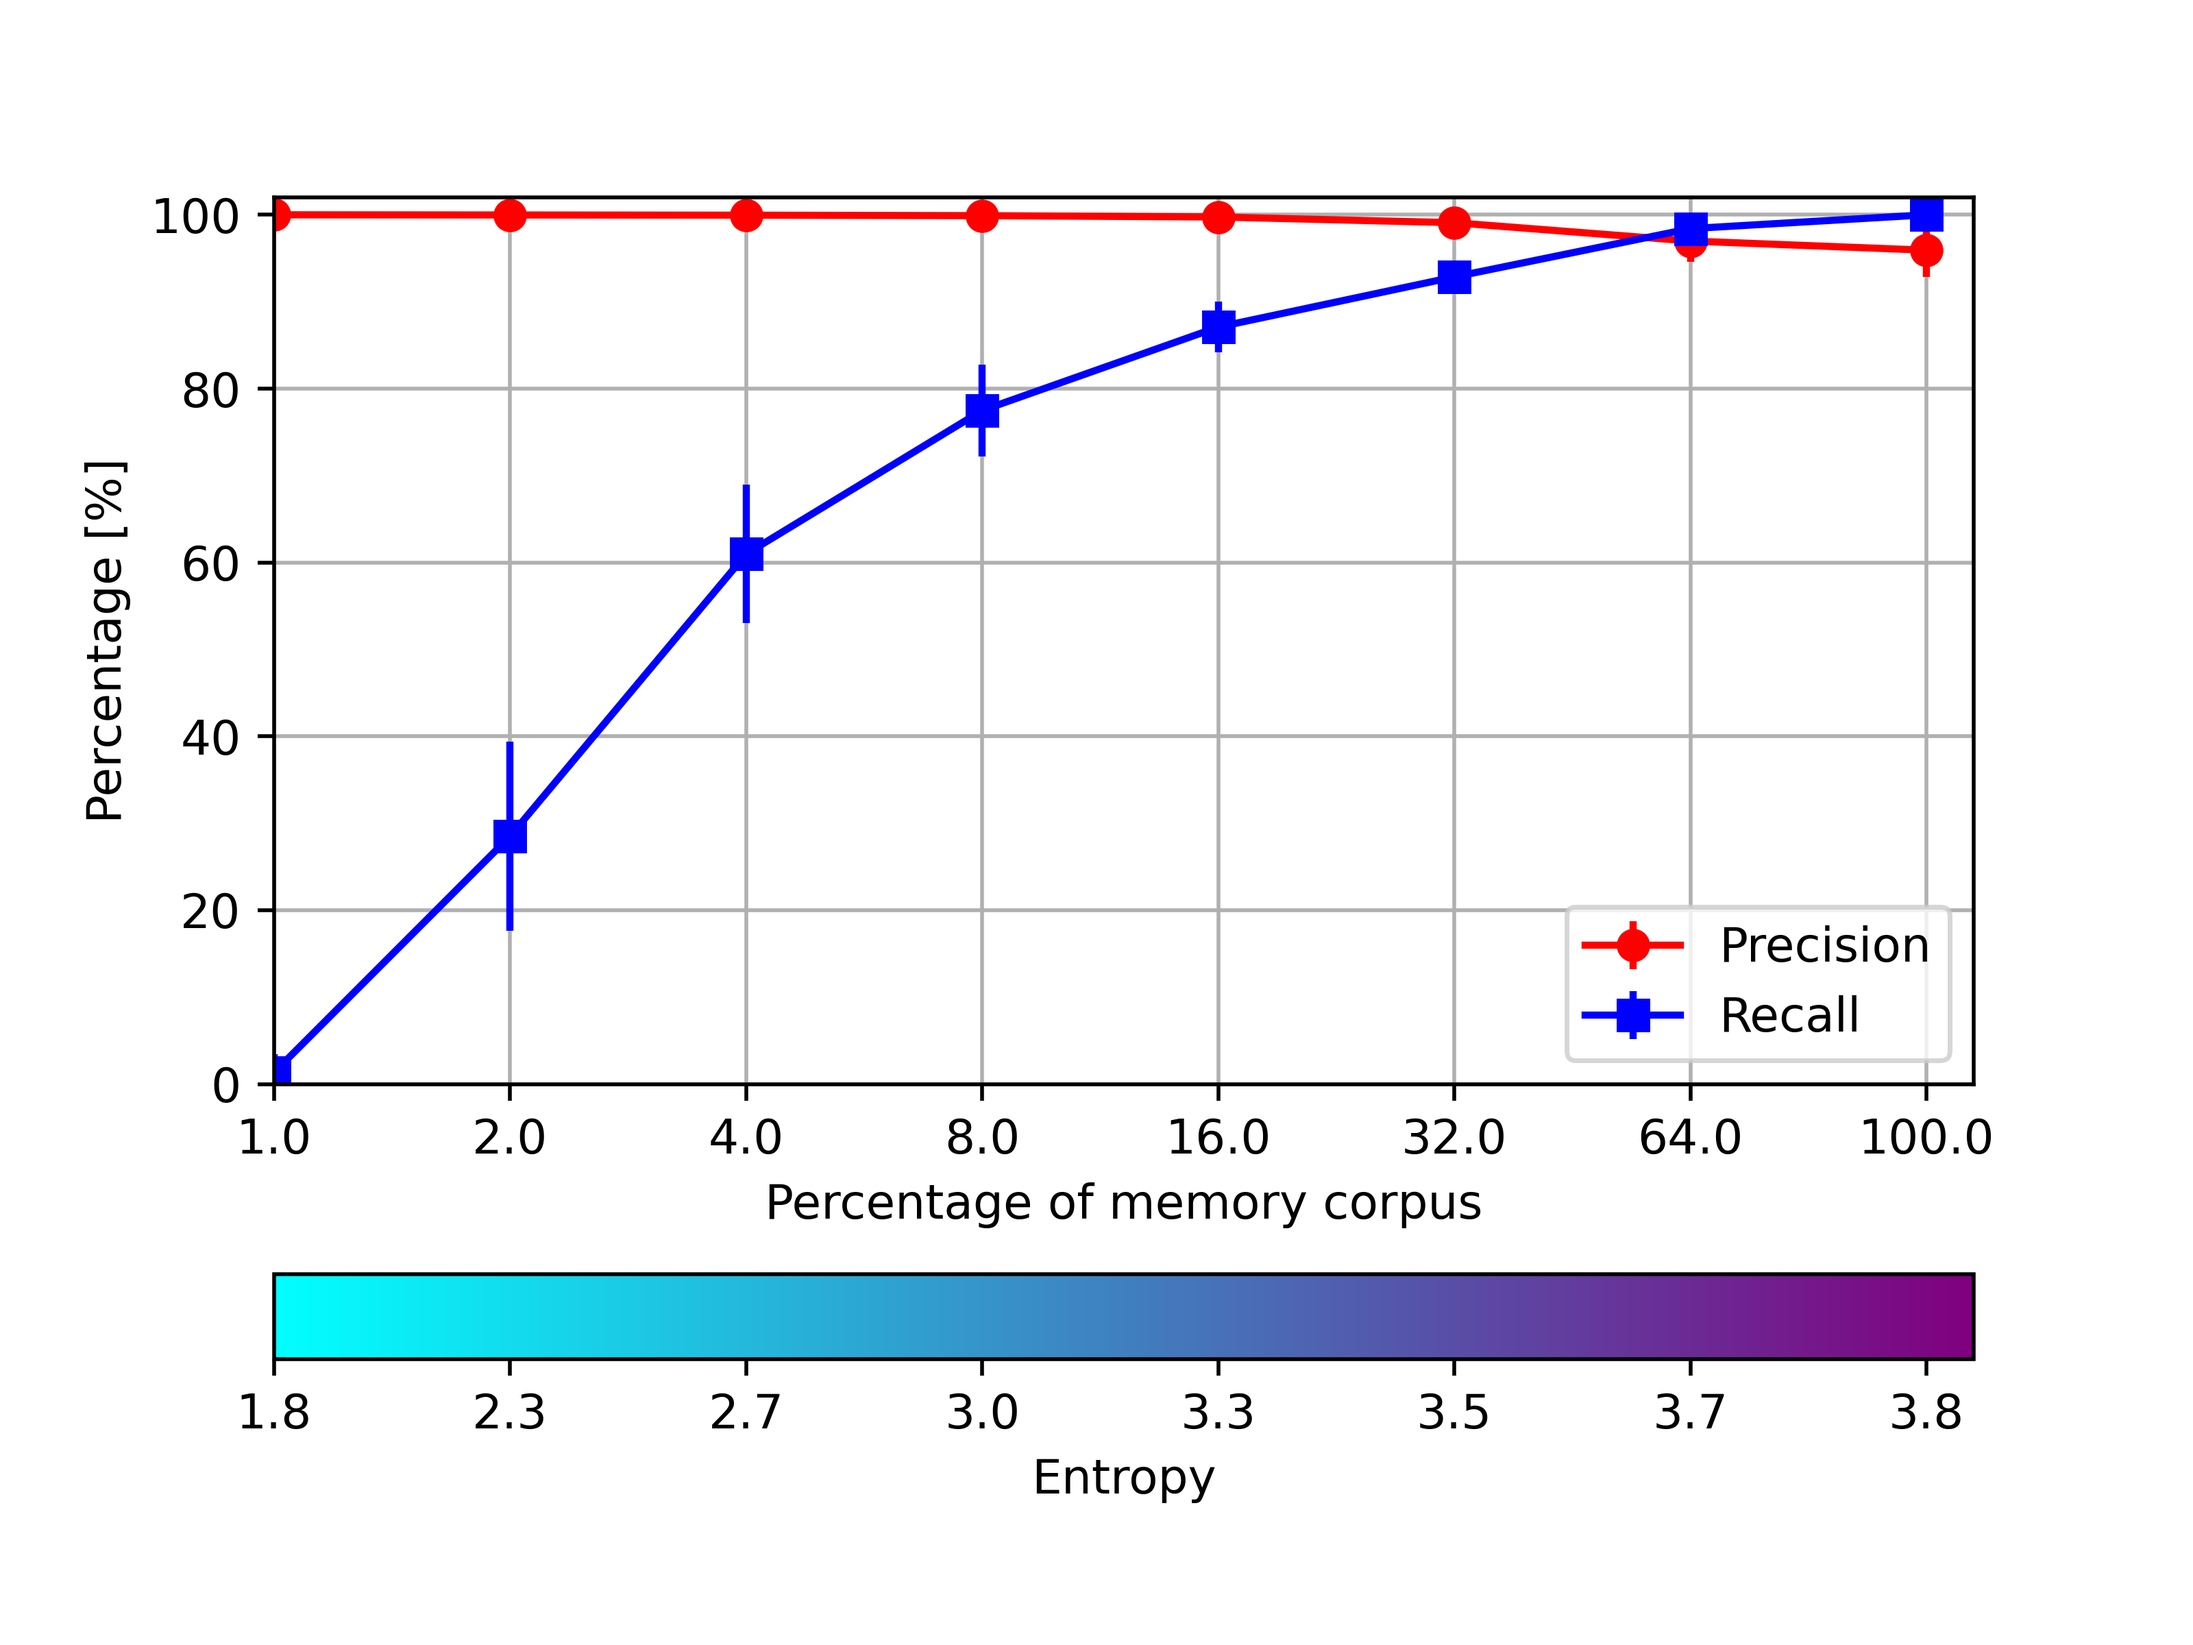
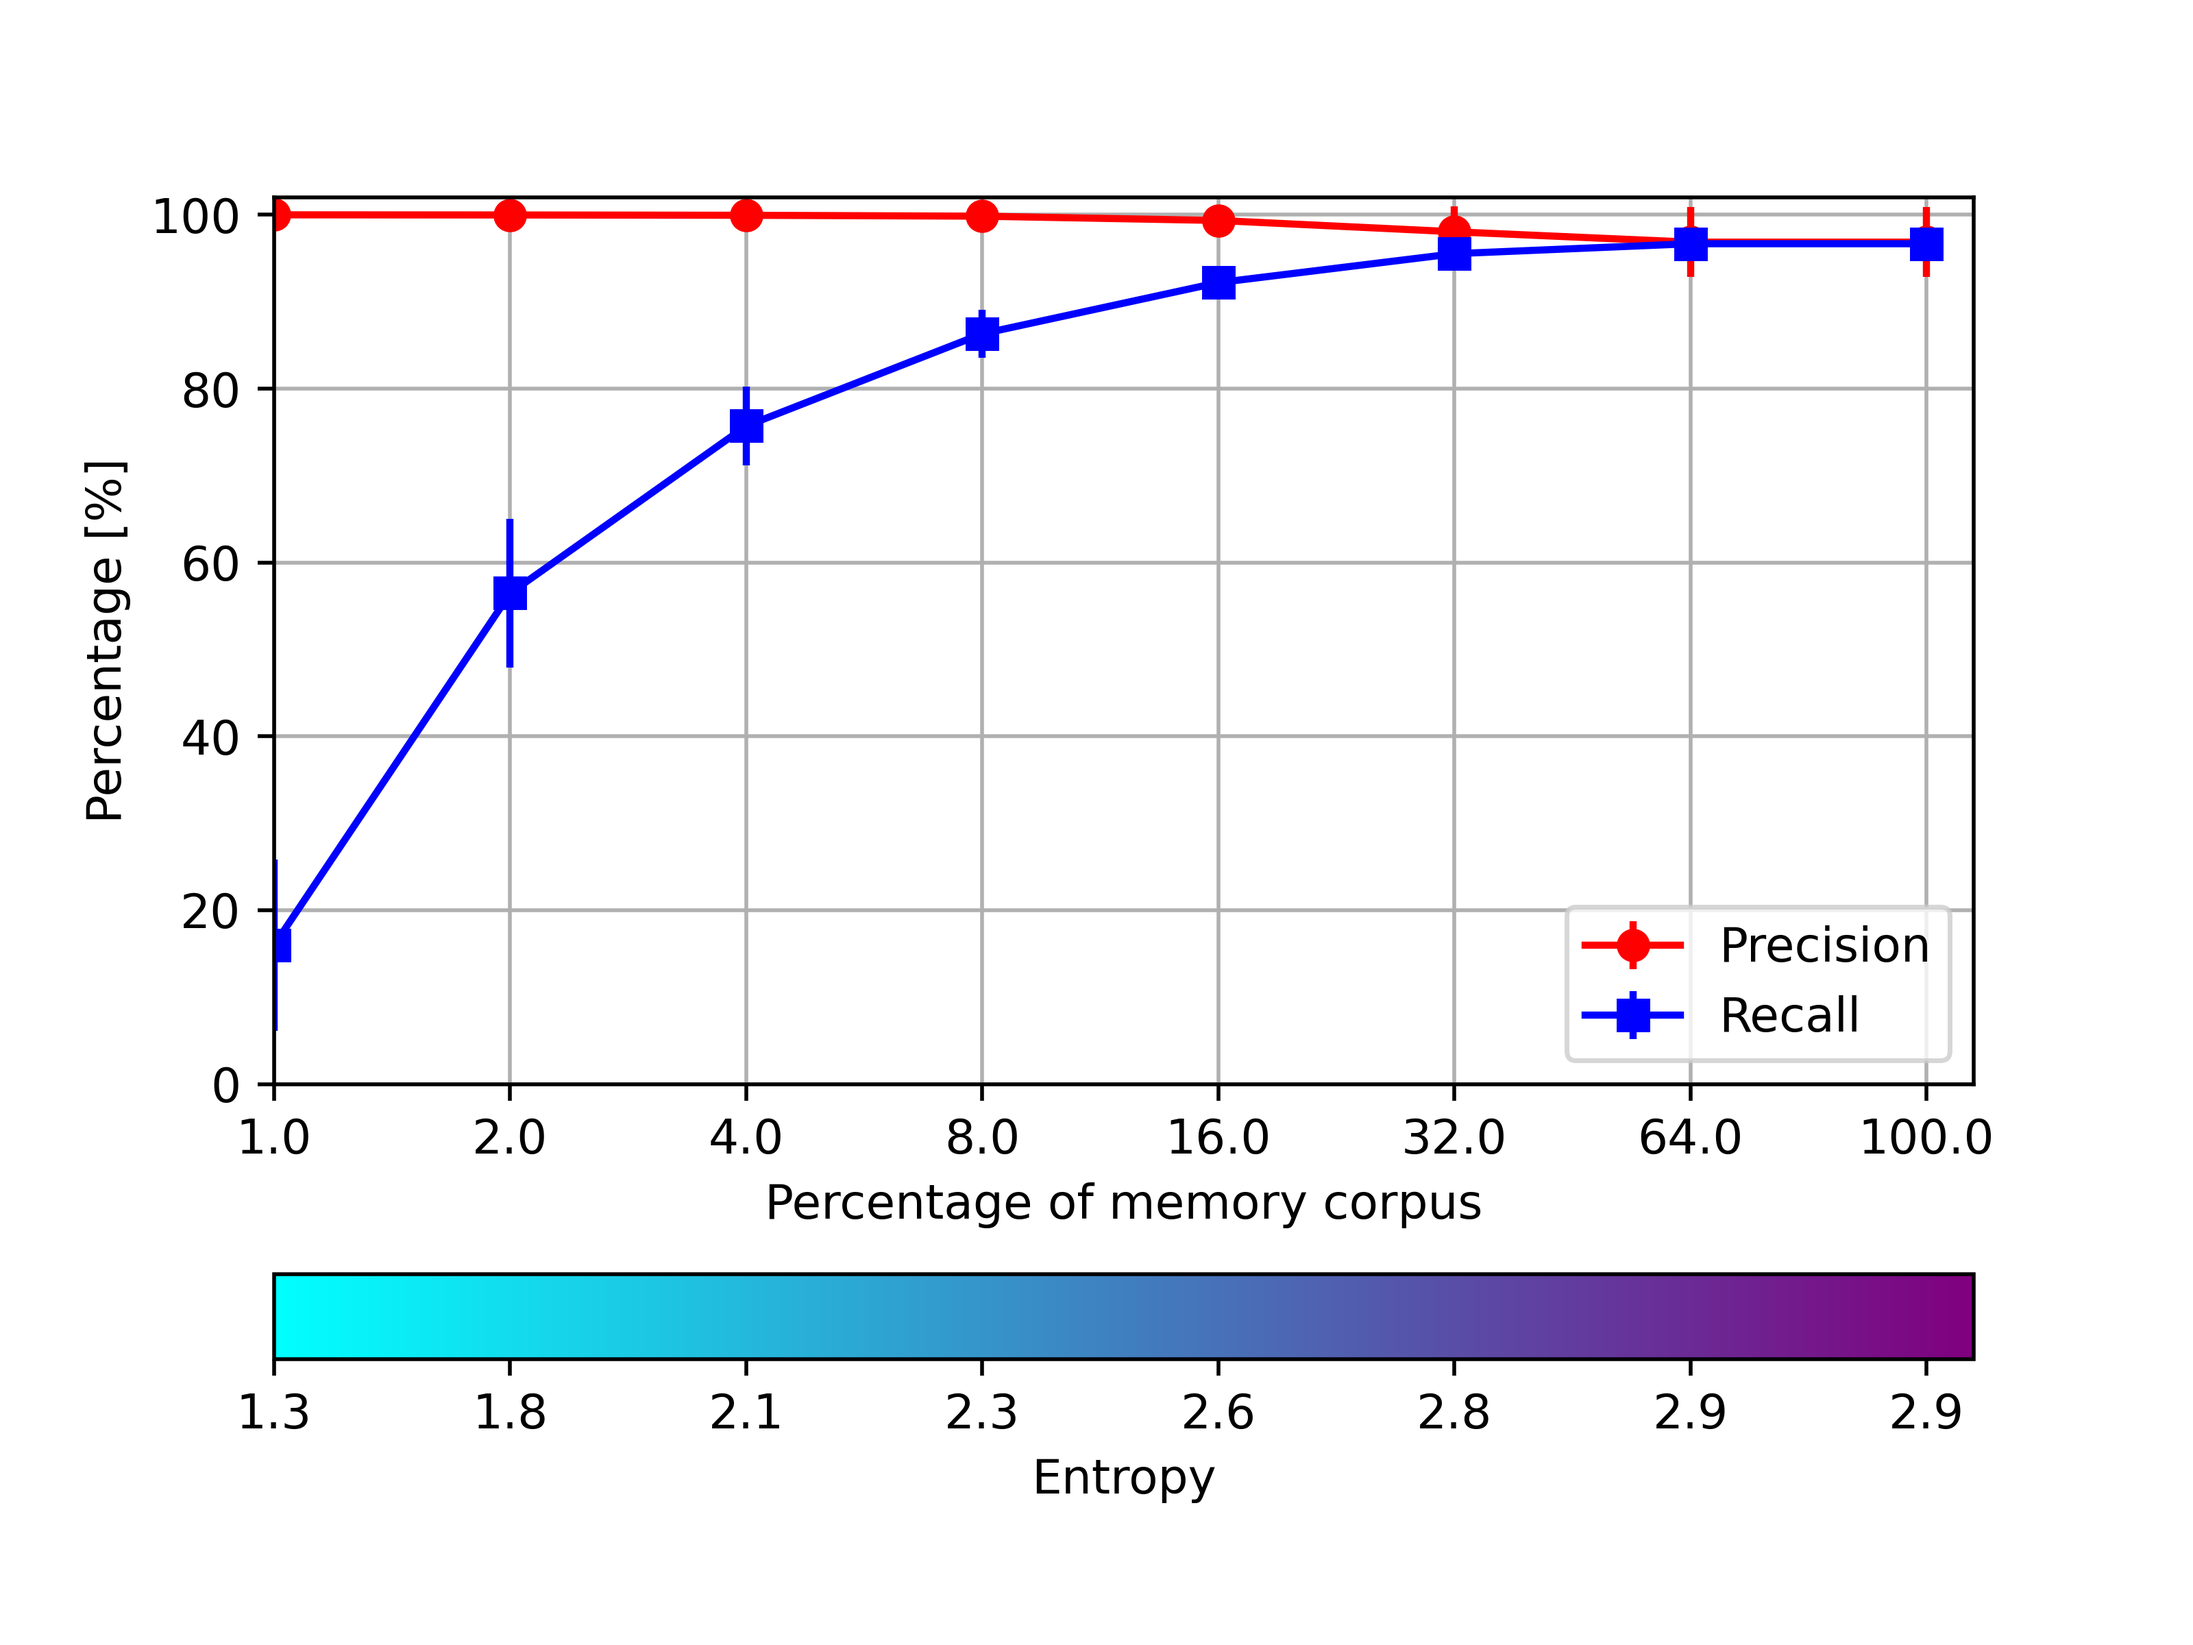
All three experiments running in partial and full data.

diff --git a/main_test_associative.py b/main_test_associative.py
@@ -241,13 +241,13 @@ def test_memories(domain, prefix, experiment):
     labels_x_memory = constants.labels_per_memory[experiment]
     n_memories = int(constants.n_labels/labels_x_memory)
 
+    if prefix == constants.partial_prefix:
+        suffix = constants.filling_suffix
+    elif prefix == constants.full_prefix:
+        suffix = constants.training_suffix
+
     for i in range(constants.training_stages):
         gc.collect()
-
-        if prefix == constants.partial_prefix:
-            suffix = constants.filling_suffix
-        elif prefix == constants.full_prefix:
-            suffix = constants.training_suffix
 
         training_features_filename = prefix + constants.features_prefix + suffix        
         training_features_filename = constants.data_filename(training_features_filename, i)
@@ -514,28 +514,45 @@ def get_stdev(d):
     return stdevs    
     
 
-def test_recalling_fold(n_memories, mem_size, domain, experiment, fold):
+def test_recalling_fold(n_memories, mem_size, domain, prefix, experiment, fold):
     # Create the required associative memories.
     ams = dict.fromkeys(range(n_memories))
     for j in ams:
         ams[j] = AssociativeMemory(domain, mem_size)
 
-    feat_filename = constants.data_filename(constants.features_fn_prefix, fold)
-    labl_filename = constants.data_filename(constants.labels_fn_prefix, fold)
+    if prefix == constants.partial_prefix:
+        suffix = constants.filling_suffix
+    elif prefix == constants.full_prefix:
+        suffix = constants.training_suffix
 
-    data = np.load(feat_filename)
-    labels = np.load(labl_filename)
-    
-    maximum = data.max()
-    minimum = data.min()
+    training_features_filename = prefix + constants.features_prefix + suffix        
+    training_features_filename = constants.data_filename(training_features_filename, fold)
+    training_labels_filename = prefix + constants.labels_prefix + suffix        
+    training_labels_filename = constants.data_filename(training_labels_filename, fold)
 
-    total = int(len(data)*constants.am_training_percent)
+    suffix = constants.testing_suffix
+    testing_features_filename = prefix + constants.features_prefix + suffix        
+    testing_features_filename = constants.data_filename(testing_features_filename, fold)
+    testing_labels_filename = prefix + constants.labels_prefix + suffix        
+    testing_labels_filename = constants.data_filename(testing_labels_filename, fold)
+
+    features = np.load(training_features_filename)
+    labels = np.load(training_labels_filename)
+    testing_features = np.load(testing_features_filename)
+    testing_labels = np.load(testing_labels_filename)
+
+    training_max = features.max()
+    testing_max = testing_features.max()
+    training_min = features.min()
+    testing_min = testing_features.min()
+
+    maximum = training_max if training_max > testing_max else testing_max
+    minimum = training_min if training_min < testing_min else testing_min
+
+    total = len(features)
     percents = np.array([1.0, 2.0, 4.0, 8.0, 16.0, 32.0, 64.0, 100.0])
     steps = np.round(total*percents/100.0).astype(int)
     xlabels = percents.tolist()
-
-    testing_features = data[total:]
-    testing_labels = labels[total:]
 
     stage_recalls = {}
     stage_entropies = {}
@@ -546,7 +563,7 @@ def test_recalling_fold(n_memories, mem_size, domain, experiment, fold):
     k = 0
     for j in range(len(steps)):
         k += steps[j]
-        training_features = data[i:k]
+        training_features = features[i:k]
         training_labels = labels[i:k]
         i = k
 
@@ -568,9 +585,8 @@ def test_recalling_fold(n_memories, mem_size, domain, experiment, fold):
     return  stage_recalls, stage_entropies, stage_mprecision, stage_mrecall, xlabels
 
 
-def test_recalling(domain, experiment):
+def test_recalling(domain, prefix, mem_size, experiment):
     n_memories = constants.n_labels
-    mem_size = constants.ideal_memory_size
 
     all_recalls = {}
     all_entropies = {}
@@ -580,7 +596,7 @@ def test_recalling(domain, experiment):
     xlabels = []
 
     list_results = Parallel(n_jobs=constants.n_jobs, verbose=50)(
-        delayed(test_recalling_fold)(n_memories, mem_size, domain, experiment, fold) \
+        delayed(test_recalling_fold)(n_memories, mem_size, domain, prefix, experiment, fold) \
             for fold in range(constants.training_stages))
 
     for stage_recalls, stage_entropies, stage_mprecision, stage_mrecall, xlbls in list_results:
@@ -604,8 +620,8 @@ def test_recalling(domain, experiment):
             a[1:(domain+1)] = features
             rows.append(a)
         rows = np.array(rows)
-        filename = constants.csv_filename(constants.memories_fn_prefix, i)
-        np.savetxt(filename, rows, delimiter=',')
+        filename = constants.data_filename(prefix+constants.memories_prefix, i)
+        np.save(filename, rows)
 
     main_avrge_entropies = get_means(all_entropies)
     main_stdev_entropies = get_stdev(all_entropies)
@@ -692,8 +708,10 @@ def main(action):
         test_memories(constants.domain, constants.partial_prefix, action)
     elif (action == FIRST_EXP_FULL) or (action == SECOND_EXP_FULL):
         test_memories(constants.domain, constants.full_prefix, int(action/10))
-    elif (action == THIRD_EXP_FULL) or (action == THIRD_EXP_PARTIAL):
-        test_recalling(constants.domain, action)
+    elif (action == THIRD_EXP_PARTIAL):
+        test_recalling(constants.domain, constants.partial_prefix, constants.partial_ideal_memory_size, action)
+    elif (action == THIRD_EXP_FULL):
+        test_recalling(constants.domain, constants.full_prefix, constants.full_ideal_memory_size, int(action/10))
 
 
 if __name__== "__main__" :

diff --git a/constants.py b/constants.py
@@ -82,6 +82,7 @@ mean_responses_idx = 6
 n_behaviours = 7
 
 memory_sizes = [1, 2, 4, 8, 16, 32, 64, 128, 256, 512]
-ideal_memory_size = 38
+partial_ideal_memory_size = 20
+full_ideal_memory_size = 60
 
 
